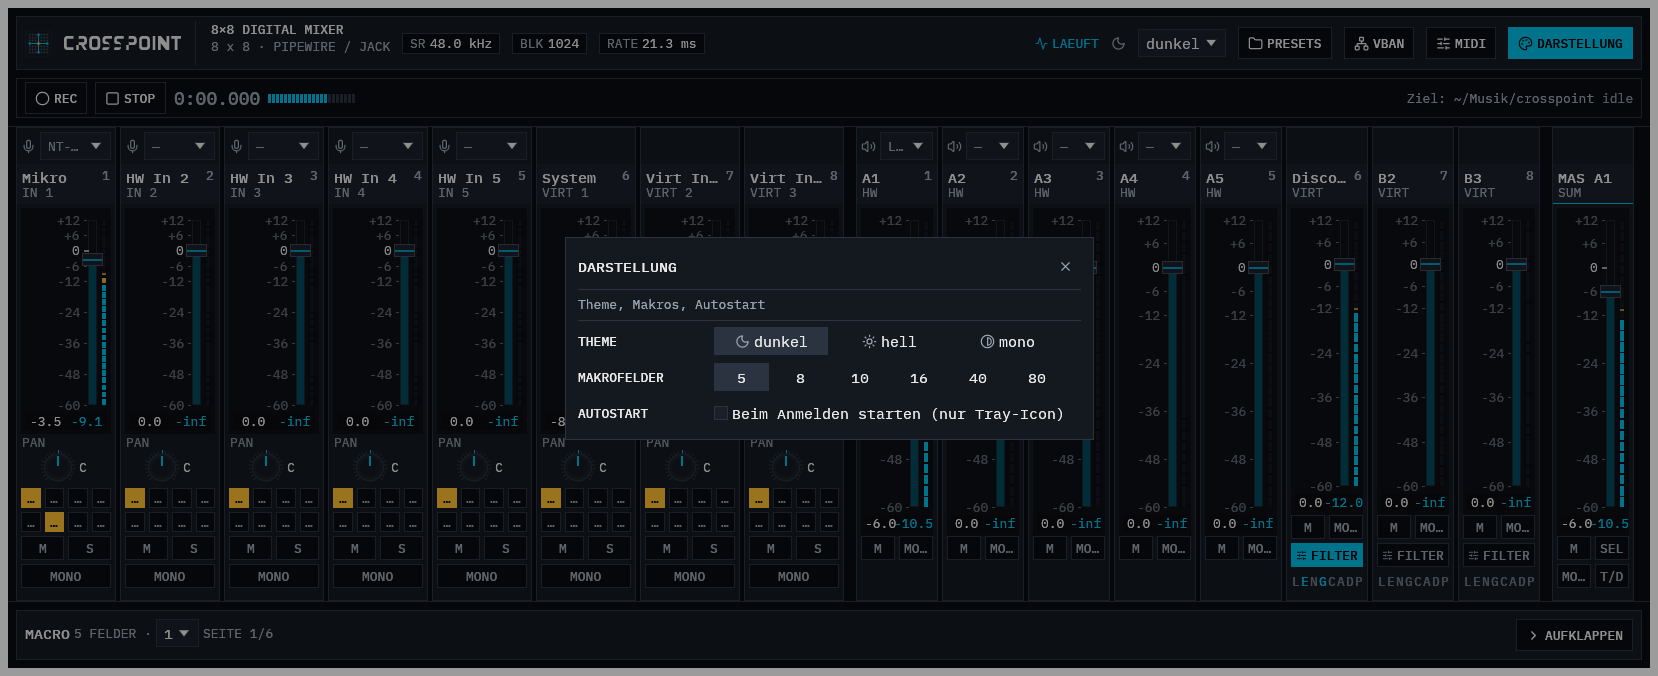
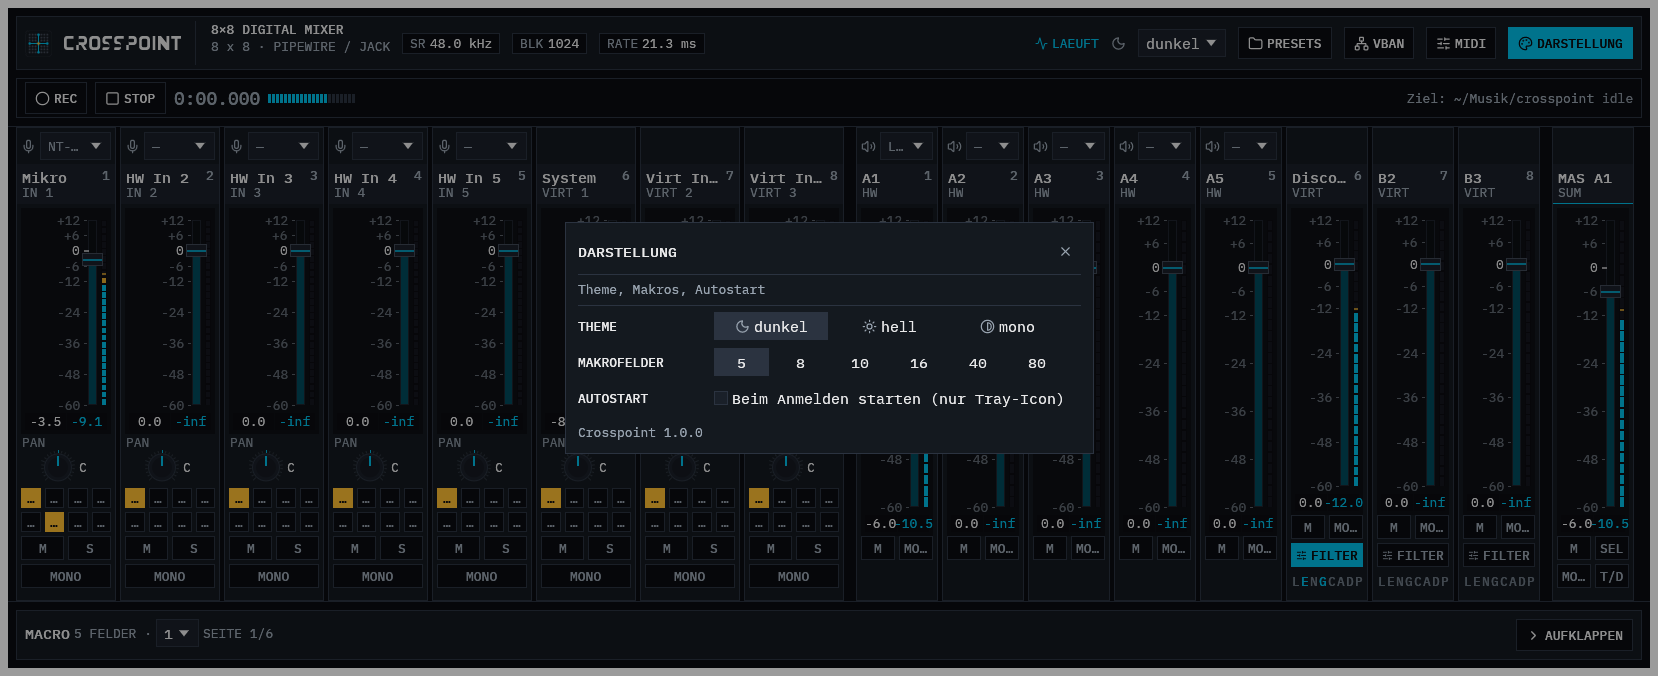
feat: --version und Version unten im DARSTELLUNG-Dialog (#13)
* feat: --version für crosspoint und crosspoint-engine

Beide Binärziele geben mit `--version` (oder `-V`) eine Zeile
`crosspoint <version>` aus und enden mit Exit 0, bevor irgendetwas
startet: keine Instanzprüfung, kein JACK, keine Geräte, kein Fenster.
Die Zahl ist `env!("CARGO_PKG_VERSION")` des Wurzelpakets – für beide
Programme dieselbe, denn beide gehören zu diesem Paket.

`--help` nennt die Option in beiden Programmen. Im Oberflächen-Binary
steht die Version zusätzlich als Konstante bereit: im nächsten Schritt
reicht sie der Start an die DARSTELLUNG weiter.

Test: `tests/version.rs` ruft die gebauten Programme
(`CARGO_BIN_EXE_…`) mit `--version` und `-V` auf und prüft Exit-Code,
Ausgabe und leeres stderr – nicht die App selbst, damit keine laufende
Instanz gestört wird.

* feat: Version unten im DARSTELLUNG-Dialog

Die Version ist jetzt ein Datum im Modell (`Oberflaeche::version`) und
kommt von außen: `src/bin/crosspoint.rs` liest sie aus dem Wurzelpaket
(`env!("CARGO_PKG_VERSION")`) und reicht sie an `betrieb::starten`, das
sie ins Modell legt. Kein `env!` in der Darstellung, und nicht die
Version des Fenster-Crates – das wäre die der Bibliothek.

Unten im DARSTELLUNG-Dialog steht deshalb gedämpft und linksbündig im
Rahmen `Crosspoint 1.0.0` – dieselbe Zahl wie `--version`, in der
Textschrift und im Token für zurückgenommene Schrift, ohne Scrollen.
Gibt es keine Version im Modell (`None`), bleibt die Zeile weg.
[…]

diff --git a/crates/fenster/tests/oberflaeche.rs b/crates/fenster/tests/oberflaeche.rs
@@ -43,6 +43,21 @@ fn eintrag(name: &str, anzeige: &str) -> Eintrag {
     }
 }
 
+/// Die Version, die das Programm anzeigt: sie steht im **Wurzelpaket**
+/// (`Cargo.toml` oben, AGENTS.md §6) und wird im Betrieb vom Binary ins Modell
+/// gelegt. `env!("CARGO_PKG_VERSION")` wäre hier die Version dieses Crates –
+/// deshalb gelesen, nicht abgefragt.
+fn version_der_wurzel() -> String {
+    let pfad = std::path::Path::new(env!("CARGO_MANIFEST_DIR")).join("../../Cargo.toml");
+    let text = std::fs::read_to_string(&pfad).unwrap_or_else(|e| panic!("{}: {e}", pfad.display()));
+    text.lines()
+        .skip_while(|z| z.trim() != "[package]")
+        .skip(1)
+        .find_map(|z| z.trim().strip_prefix("version = "))
+        .map(|v| v.trim().trim_matches('"').to_string())
+        .expect("version im [package] der Wurzel-Cargo.toml")
+}
+
 /// Ein Pult wie im Alltag: Mikro auf A1 und B1, Systemton auf A1, Pegel.
 fn beispiel(thema: Thema) -> (Fenster, Arc<Params>) {
     let params = Arc::new(Params::new(48_000.0, 1024));
@@ -78,6 +93,7 @@ fn beispiel(thema: Thema) -> (Fenster, Arc<Params>) {
     };
     let mut o = Oberflaeche {
         thema,
+        version: Some(version_der_wurzel()),
         ..Oberflaeche::default()
     };
     o.geraete = Geraete::Fertig(Box::new(Bestand {
@@ -154,6 +170,24 @@ fn gezeichnete_flaechen(h: &Harness<'static, Fenster>, farbe: egui::Color32) -> 
             _ => None,
         })
         .collect()
+}
+
+/// Die Farbe, in der ein Text gemalt wurde – so lässt sich prüfen, dass eine
+/// Zeile den Token für gedämpfte Schrift trägt und nicht den der Bedienung.
+fn textfarbe(h: &Harness<'static, Fenster>, inhalt: &str) -> Option<egui::Color32> {
+    fn suche(shape: &egui::Shape, inhalt: &str) -> Option<egui::Color32> {
+        match shape {
+            egui::Shape::Text(t) if t.galley.text() == inhalt => {
+                t.galley.job.sections.first().map(|s| s.format.color)
+            }
+            egui::Shape::Vec(teile) => teile.iter().find_map(|s| suche(s, inhalt)),
+            _ => None,
+        }
+    }
+    h.output()
+        .shapes
+        .iter()
+        .find_map(|cs| suche(&cs.shape, inhalt))
 }
 
 #[test]
@@ -1339,6 +1373,68 @@ fn darstellung_hat_rand_und_gleiche_kanten() {
         assert!(
             rechts[0] <= dialog.right() - thema::SPACE_2,
             "{name}: die Knöpfe enden am Rahmen"
+        );
+    }
+}
+
+/// Die Version steht unten in der DARSTELLUNG: gedämpft in der Schrift der
+/// Beschriftungen, linksbündig im Rahmen unter dem Autostart, nichts scrollt –
+/// und die Zahl kommt aus dem Modell (`betrieb::starten` legt sie hinein,
+/// `--version` gibt dieselbe aus).
+#[test]
+fn version_steht_unten_in_der_darstellung() {
+    use crosspoint_fenster::modell::{Aktion, Dialog};
+    use crosspoint_fenster::thema;
+    let zeile = format!("Crosspoint {}", version_der_wurzel());
+    let min = mindestgroesse();
+    for (breite, hoehe, name) in [(ALLTAG.x, ALLTAG.y, "1590"), (min.x, min.y, "Mindestgröße")] {
+        let (mut f, _) = beispiel(Thema::Dunkel);
+        f.ausfuehren(Aktion::Dialog(Some(Dialog::Darstellung)));
+        let mut h = harness(f, (breite, hoehe));
+        h.run_steps(6);
+        let fenster = egui::Rect::from_min_size(egui::Pos2::ZERO, egui::vec2(breite, hoehe));
+        let dialog = h.get_by_label("Dialog DARSTELLUNG").rect();
+        assert!(
+            fenster.contains_rect(dialog),
+            "{name}: Dialog {dialog:?} läuft aus dem Fenster {fenster:?}"
+        );
+        // Der zugängliche Name der Zeile ist die Zeile selbst.
+        let text = h.get_by_label(&zeile).rect();
+        assert!(
+            dialog.contains_rect(text),
+            "{name}: {text:?} steht nicht im Dialog {dialog:?}"
+        );
+        // Unten: unter dem Autostart-Kästchen, mit Abstand zum Rahmen und
+        // linksbündig wie die Beschriftungen darüber.
+        let autostart = h
+            .get_all_by_label_contains("Beim Anmelden starten")
+            .next()
+            .expect("Autostart-Text fehlt")
+            .rect();
+        assert!(
+            text.top() > autostart.bottom(),
+            "{name}: die Version steht nicht unter dem Autostart ({text:?} / {autostart:?})"
+        );
+        assert!(
+            text.left() >= dialog.left() && text.right() < dialog.right() - thema::SPACE_2,
+            "{name}: die Version stößt an den Rahmen ({text:?} / {dialog:?})"
+        );
+        assert!(
+            text.bottom() <= dialog.bottom(),
+            "{name}: die Version läuft unten aus dem Dialog ({text:?} / {dialog:?})"
+        );
+        // Gedämpft heißt: der Token für zurückgenommene Schrift, nicht der
+        // für die Beschriftungen.
+        assert_eq!(
+            textfarbe(&h, &zeile),
+            Some(Thema::Dunkel.farben().text_muted),
+            "{name}: die Version steht nicht in der gedämpften Farbe"
+        );
+        assert_eq!(
+            h.query_all_by_role(egui::accesskit::Role::ScrollBar)
+                .count(),
+            0,
+            "{name}: Scrollbalken im Dialog"
         );
     }
 }

diff --git a/crates/fenster/src/betrieb.rs b/crates/fenster/src/betrieb.rs
@@ -53,7 +53,21 @@ impl Default for Args {
 
 pub const HILFE: &str = "crosspoint [--theme dark|light|mono] \
 [--dialog presets|vban|midi|darstellung] [--size 1600x920] [--client NAME] [--listen ADDR] \
-[--minimized (nur Tray-Icon)] [--schliessen-nach SEKUNDEN (Selbsttest)]";
+[--minimized (nur Tray-Icon)] [--schliessen-nach SEKUNDEN (Selbsttest)] [--version]";
+
+/// `--version`/`-V`: eine Zeile ausgeben und `true` melden – **vor** jeder
+/// Wirkung (kein JACK, keine Instanzprüfung, kein Fenster).
+///
+/// Die Zahl kommt vom Wurzelpaket (`env!("CARGO_PKG_VERSION")` im Binary):
+/// dieses Crate kennt seine Verpackung nicht. Ohne die Option wird nichts
+/// ausgegeben und `false` gemeldet.
+pub fn version_ausgeben(version: &str, args: impl Iterator<Item = String>) -> bool {
+    if !args.into_iter().any(|a| a == "--version" || a == "-V") {
+        return false;
+    }
+    println!("crosspoint {version}");
+    true
+}
 
 pub fn args_aus(mut it: impl Iterator<Item = String>) -> Args {
     let mut a = Args::default();
@@ -135,7 +149,7 @@ pub fn danach(
 /// und Symbol laufen weiter, „Fenster zeigen“ öffnet ein neues. So geht es
 /// unter Wayland und X11 gleich – ein Fenster *verstecken* kann winit unter
 /// Wayland nicht.
-pub fn starten(app_id: &str, a: Args) {
+pub fn starten(app_id: &str, version: &str, a: Args) {
     // Läuft schon eine Instanz, zeigt sie ihr Fenster – eine zweite Engine
     // gäbe es sonst doppelt (gleicher Port, gleiche virtuelle Geräte).
     if laufende_instanz_wecken(&a.listen, a.minimiert) {
@@ -173,7 +187,12 @@ pub fn starten(app_id: &str, a: Args) {
     let mut erstes = true;
     loop {
         if zeigen {
-            let mut o = Oberflaeche::default();
+            // Die Version der Anwendung, nicht die dieses Crates: sie kommt
+            // aus dem Binary (Wurzelpaket) und steht unten in der DARSTELLUNG.
+            let mut o = Oberflaeche {
+                version: Some(version.to_string()),
+                ..Oberflaeche::default()
+            };
             konfig::Datei::laden(&konfig::pfad()).anwenden(&mut o);
             o.echo_geraete = crosspoint::echo::auswahl();
             if let Some(t) = a.theme.as_deref() {
@@ -489,5 +508,11 @@ mod tests {
         let leer = args_aus(std::iter::empty());
         assert_eq!(leer.client, "crosspoint");
         assert!(!leer.minimiert);
+        // Ohne `--version` gibt `version_ausgeben` nichts aus und meldet
+        // `false` – der Start geht weiter.
+        assert!(!version_ausgeben(
+            "1.0.0",
+            ["--theme", "mono"].into_iter().map(String::from)
+        ));
     }
 }

diff --git a/tests/version.rs b/tests/version.rs
@@ -1,0 +1,60 @@
+//! `--version` beider Binärziele: eine Zeile, Exit 0 – und **nichts** startet.
+//!
+//! Geprüft werden die gebauten Programme (`CARGO_BIN_EXE_…`), nicht die App
+//! selbst: ein zweiter Lauf neben einer laufenden Instanz würde deren Geräte
+//! abräumen. Deshalb steht hier auch kein Test, der `crosspoint` ohne
+//! `--version` aufruft – die Ausgabe kommt aus dem Wurzelpaket
+//! (`CARGO_PKG_VERSION`), also derselben Zahl wie `crosspoint --version`.
+
+use std::process::Command;
+
+/// Was `--version` ausgeben muss: die Version des Wurzelpakets.
+const VERSION: &str = env!("CARGO_PKG_VERSION");
+
+/// Startet ein Binary mit einem Argument und sammelt Exit-Code und Ausgaben.
+///
+/// Hinge der Aufruf in JACK oder der Instanzprüfung, käme hier nichts zurück –
+/// der Test liefe in die Zeitgrenze. Genau das ist die Zusage: `--version`
+/// endet vorher.
+fn aufruf(bin: &str, arg: &str) -> (i32, String, String) {
+    let aus = Command::new(bin)
+        .arg(arg)
+        .output()
+        .unwrap_or_else(|e| panic!("{bin} {arg}: {e}"));
+    (
+        aus.status.code().unwrap_or(-1),
+        String::from_utf8_lossy(&aus.stdout).to_string(),
+        String::from_utf8_lossy(&aus.stderr).to_string(),
+    )
+}
+
+/// Prüft beide Schreibweisen (`--version`, `-V`) für ein Binary.
+fn version_und_kurzform(bin: &str) {
+    let (code, lang, fehler) = aufruf(bin, "--version");
+    assert_eq!(code, 0, "{bin}: Exit {code}, stderr: {fehler}");
+    assert_eq!(lang, format!("crosspoint {VERSION}\n"));
+    // Nichts geredet, nichts gestartet: keine Meldung über Geräte oder JACK.
+    assert!(fehler.is_empty(), "{bin}: stderr: {fehler}");
+
+    let (code, kurz, _) = aufruf(bin, "-V");
+    assert_eq!(code, 0, "{bin}: Exit {code} bei -V");
+    assert_eq!(kurz, lang, "{bin}: -V und --version sagen nicht dasselbe");
+}
+
+#[test]
+fn engine_nennt_die_version_und_startet_nicht() {
+    version_und_kurzform(env!("CARGO_BIN_EXE_crosspoint-engine"));
+    // `--version` steht in der Hilfe.
+    let (code, hilfe, _) = aufruf(env!("CARGO_BIN_EXE_crosspoint-engine"), "--help");
+    assert_eq!(code, 0);
+    assert!(hilfe.contains("--version"), "{hilfe}");
+}
+
+#[cfg(feature = "ui")]
+#[test]
+fn oberflaeche_nennt_die_version_und_startet_nicht() {
+    version_und_kurzform(env!("CARGO_BIN_EXE_crosspoint"));
+    let (code, hilfe, _) = aufruf(env!("CARGO_BIN_EXE_crosspoint"), "--help");
+    assert_eq!(code, 0);
+    assert!(hilfe.contains("--version"), "{hilfe}");
+}

diff --git a/src/main.rs b/src/main.rs
@@ -14,11 +14,18 @@ fn main() {
             "--client" => konfig.client_name = args.next().unwrap_or(konfig.client_name),
             "--listen" => konfig.listen = args.next().unwrap_or(konfig.listen),
             "-h" | "--help" => {
-                println!("crosspoint-engine [--client NAME] [--listen ADDR] [--headless]");
+                println!("crosspoint-engine [--client NAME] [--listen ADDR] [--version]");
                 println!("  startet die Engine und die Web-UI auf 127.0.0.1:8770");
+                println!("  --version/-V: Version ausgeben, sonst nichts starten");
                 println!(
                     "  CROSSPOINT_NO_RESTORE=1: Zustand nicht wiederherstellen, kein Autosave"
                 );
+                return;
+            }
+            // Wie `crosspoint --version`: eine Zeile, dann Schluss – nichts
+            // wird angelegt, keine Geräte, kein JACK.
+            "-V" | "--version" => {
+                println!("crosspoint {}", env!("CARGO_PKG_VERSION"));
                 return;
             }
             other => {

diff --git a/src/bin/crosspoint.rs b/src/bin/crosspoint.rs
@@ -6,7 +6,18 @@
 //!
 //! Fenster zu → Engine und virtuelle Geraete weg; Engine zu → Fenster zu.
 
+/// Version des Wurzelpakets (AGENTS.md §6: die Zahl steht nur in der
+/// `Cargo.toml` oben). Dieselbe geht an `betrieb::starten` und steht in der
+/// DARSTELLUNG.
+const VERSION: &str = env!("CARGO_PKG_VERSION");
+
 fn main() {
+    // `--version` endet hier: keine Instanzprüfung, kein JACK, kein Fenster.
+    // Ein zweiter Lauf neben einer laufenden Instanz räumte sonst deren
+    // Geräte ab.
+    if crosspoint_fenster::betrieb::version_ausgeben(VERSION, std::env::args().skip(1)) {
+        return;
+    }
     let args = crosspoint_fenster::betrieb::args_lesen();
-    crosspoint_fenster::betrieb::starten("de.weppelmann.Crosspoint", args);
+    crosspoint_fenster::betrieb::starten("de.weppelmann.Crosspoint", VERSION, args);
 }

diff --git a/crates/fenster/src/modell.rs b/crates/fenster/src/modell.rs
@@ -159,6 +159,11 @@ impl Pegel {
 /// Alles, was das Fenster neben `Params` weiß.
 #[derive(Debug, Clone)]
 pub struct Oberflaeche {
+    /// Version des Wurzelpakets (`CARGO_PKG_VERSION`), wie `--version` sie
+    /// ausgibt. Sie kommt von außen (`betrieb::starten`), nicht aus diesem
+    /// Crate: hier steht nur die Zahl, die in der DARSTELLUNG unten steht.
+    /// `None` = unbekannt, dann bleibt die Zeile weg.
+    pub version: Option<String>,
     pub thema: Thema,
     /// Bus, den der Master-Zug bedient.
     pub master_bus: usize,
@@ -193,6 +198,7 @@ pub struct Oberflaeche {
 impl Default for Oberflaeche {
     fn default() -> Self {
         Oberflaeche {
+            version: None,
             thema: Thema::default(),
             master_bus: 0,
             dialog: None,

diff --git a/crates/fenster/src/ansichten/dialoge.rs b/crates/fenster/src/ansichten/dialoge.rs
@@ -478,4 +478,19 @@ fn darstellung(ui: &mut Ui, f: &Farben, o: &mut Oberflaeche, a: &mut Vec<Aktion>
             }
             ui.end_row();
         });
+    // Unten die Version – gedämpft und linksbündig im Rahmen, wie die
+    // Beschriftungen oben. Sie ist keine Einstellung, sondern eine Auskunft:
+    // dieselbe Zahl, die `crosspoint --version` ausgibt.
+    if let Some(version) = &o.version {
+        ui.add_space(thema::SPACE_2);
+        ui.add(
+            Label::new(bausteine::text(
+                f,
+                &format!("Crosspoint {version}"),
+                false,
+                true,
+            ))
+            .truncate(),
+        );
+    }
 }

diff --git a/docs/architektur.md b/docs/architektur.md
@@ -128,6 +128,14 @@ Themes (`dark`, `light`, `mono`), keine Nutzer-Themes, kein Theme-Editor.
   Skalenzahlen stehen immer da; reicht die Höhe nicht für die Makrofelder,
   zeigt die Leiste nur ihre Kopfzeile. Wählbar bleiben Theme und Zahl der
   Makrofelder – gespeichert in `~/.config/crosspoint/fenster.json`.
+- **Die Version ist eine Zeile, keine Einstellung.** Unten im
+  DARSTELLUNG-Dialog steht gedämpft `Crosspoint <version>`. Die Zahl kommt
+  nicht aus dem Fenster-Crate – dort stünde die Version der Bibliothek –,
+  sondern aus dem Wurzelpaket: `src/bin/crosspoint.rs` liest
+  `env!("CARGO_PKG_VERSION")`, gibt sie an `betrieb::starten` weiter, das sie
+  ins Feld `Oberflaeche::version` legt. Dieselbe Zahl gibt
+  `crosspoint --version` aus und beendet sich dabei, **bevor** eine Instanz
+  geprüft oder JACK geöffnet wird.
 
 ## Plattformen: Linux ausgeliefert, macOS im Unterbau
 

diff --git a/README.md b/README.md
@@ -152,6 +152,10 @@ cargo build --release --features ui                # Engine und Fenster (egui)
 packaging/linux/paket.sh                           # dist/: tar.gz und AppImage (braucht appimagetool)
 ```
 
+`crosspoint --version` (oder `-V`, auch bei `crosspoint-engine`) gibt die
+Version aus und beendet sich sofort – ohne JACK, ohne Fenster; dieselbe Zahl
+steht unten im DARSTELLUNG-Dialog.
+
 `crosspoint-wire.sh up` legt `crosspoint_in_1..3` (Anwendungen spielen hinein →
 Streifen 6..8, Anzeigename `CROSSPOINT-Input-1..3`) und `crosspoint_out_B1..3`
 (Anwendungen nehmen auf ← Busse B1..B3, Anzeigename `CROSSPOINT-Output-B1..B3`)
